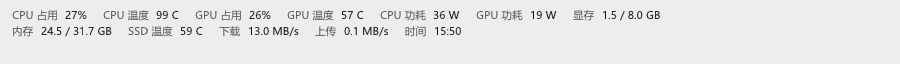
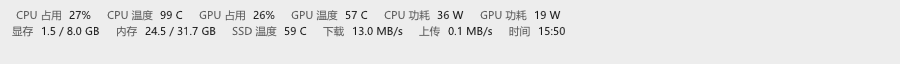
fix: 停靠预览不再跳到顶部，停靠布局固定两行
- 设置窗口打开时也按任务栏位置预览，拖动停靠宽度不再跳到顶部
- 停靠固定两行：按条目数对半分、行内居中，字号在 0.9x–0.6x 间自适应
- 停靠位置 y 增加下限，面板再高也不会跑到任务栏上方
- 版本升至 1.0.7

Changed region(s): [[0.0, 0.1562, 0.7467, 0.3438], [0.0, 0.4062, 0.6533, 0.5938]]

diff --git a/src/overlay_ui.cpp b/src/overlay_ui.cpp
@@ -248,7 +248,32 @@ ImVec2 DrawStats(const Config& cfg, const SensorSnapshot& snap, ImVec2 pos, ImVe
     std::array<int,kMetricCount> rank{};
     for (size_t i=0;i<kMetricCount;++i) rank[cfg.metricOrder[i]]=static_cast<int>(i);
     std::sort(items.begin(),items.end(),[&](const auto& a,const auto& b){ return rank[a.id]<rank[b.id]; });
-    const float fontSize = ImGui::GetStyle().FontSizeBase * (docked ? std::min(cfg.fontScale, kDockedFontScale) : cfg.fontScale);
+    // Docked: exactly two balanced, centred rows. Shrink the font until both rows fit the width.
+    const float baseFont = ImGui::GetStyle().FontSizeBase;
+    float dockScale = kDockedFontScale;
+    int dockSplit = 0;
+    std::vector<float> dockWidths;
+    if (docked && !items.empty()) {
+        const int count = static_cast<int>(items.size());
+        dockSplit = (count + 1) / 2;
+        dockWidths.resize(items.size());
+        auto rowWidth = [&](int begin, int end) {
+            float sum = 0;
+            for (int i = begin; i < end; ++i) sum += dockWidths[size_t(i)];
+            if (end > begin) sum += 16.0f * float(end - begin - 1);
+            return sum;
+        };
+        for (float scale = kDockedFontScale; scale >= 0.6f; scale -= 0.05f) {
+            ImGui::PushFont(nullptr, baseFont * scale);
+            for (size_t i = 0; i < items.size(); ++i)
+                dockWidths[i] = ImGui::CalcTextSize(items[i].label.c_str()).x + 7 +
+                                ImGui::CalcTextSize(items[i].text.c_str()).x;
+            ImGui::PopFont();
+            dockScale = scale;
+            if (std::max(rowWidth(0, dockSplit), rowWidth(dockSplit, count)) <= float(cfg.dockedMaxWidth)) break;
+        }
+    }
+    const float fontSize = baseFont * (docked ? dockScale : cfg.fontScale);
     if (hud.fontSize!=fontSize) { hud.valueWidths.fill(0); hud.fontSize=fontSize; }
     ImGui::PushFont(nullptr, fontSize);
     ImGui::PushStyleColor(ImGuiCol_WindowBg, light ? ImVec4(1.0f,1.0f,1.0f,1.0f) : ImVec4(0.06f,0.06f,0.06f,1.0f));
@@ -274,6 +299,37 @@ ImVec2 DrawStats(const Config& cfg, const SensorSnapshot& snap, ImVec2 pos, ImVe
         const float available = docked && cfg.dockedMaxWidth > 0
             ? float(cfg.dockedMaxWidth)
             : std::max(100.0f, ImGui::GetIO().DisplaySize.x - 18.0f);
+        const float lineHeight = ImGui::GetTextLineHeight();
+        if (docked && !items.empty()) {
+            const int count = static_cast<int>(items.size());
+            const int split = std::min(dockSplit, count);
+            float w1 = 0, w2 = 0;
+            for (int i = 0; i < split; ++i) w1 += dockWidths[size_t(i)] + 16.0f;
+            for (int i = split; i < count; ++i) w2 += dockWidths[size_t(i)] + 16.0f;
+            if (split) w1 -= 16.0f;
+            if (split < count) w2 -= 16.0f;
+            const float panelWidth = std::max(w1, w2);
+            for (int row = 0; row < 2; ++row) {
+                const int begin = row ? split : 0;
+                const int end = row ? count : split;
+                if (begin >= end) continue;
+                float rx = x + (panelWidth - (row ? w2 : w1)) * 0.5f;
+                const float ry = start.y + row * (lineHeight + rowGap);
+                for (int i = begin; i < end; ++i) {
+                    const HudItem& item = items[size_t(i)];
+                    const float labelWidth = ImGui::CalcTextSize(item.label.c_str()).x;
+                    const ImVec4 labelColor = light ? ImVec4(0.32f,0.32f,0.32f,1) : ImVec4(0.78f,0.78f,0.78f,1);
+                    ImGui::SetCursorPos(ImVec2(start.x + rx, ry));
+                    ImGui::TextColored(labelColor, "%s", item.label.c_str());
+                    ImGui::SetCursorPos(ImVec2(start.x + rx + labelWidth + 7, ry));
+                    ImGui::TextColored(item.color, "%s", item.text.c_str());
+                    rx += dockWidths[size_t(i)] + 16.0f;
+                }
+            }
+            width = x + panelWidth;
+            ImGui::SetCursorPos(start);
+            ImGui::Dummy(ImVec2(width, 2.0f * lineHeight + rowGap));
+        } else {
         for (const auto& item : items) {
             const float labelWidth=ImGui::CalcTextSize(item.label.c_str()).x;
             const float textWidth=ImGui::CalcTextSize(item.text.c_str()).x;
@@ -303,6 +359,7 @@ ImVec2 DrawStats(const Config& cfg, const SensorSnapshot& snap, ImVec2 pos, ImVe
         width = std::max(width, x > 0 ? x - moduleGap : 180);
         ImGui::SetCursorPos(start);
         ImGui::Dummy(ImVec2(width, items.empty() && !snap.recording ? 0 : (row + 1) * height - rowGap));
+        }
         if (cfg.showFrameGraph) DrawFrameGraph(snap, width);
         if (noticeVisible) ImGui::TextColored(valueColor,"%s",hud.notice.c_str());
         size = ImGui::GetWindowSize();

diff --git a/src/main.cpp b/src/main.cpp
@@ -130,9 +130,10 @@ RECT MonitorRect(App& app) {
 // True when the foreground window covers its whole monitor with no title bar, i.e. a full-screen
 // game (borderless included). Maximized windows do not count: browsers and editors should get the
 // taskbar docking instead.
-bool ForegroundCoversMonitor() {
+bool ForegroundCoversMonitor(const App& app) {
     const HWND fg = GetForegroundWindow();
     if (!fg) return false;
+    if (fg == app.overlay.Hwnd() || fg == app.trayWnd) return false; // our own windows are never a game
     DWORD pid = 0;
     GetWindowThreadProcessId(fg, &pid);
     if (!pid) return false;
@@ -152,8 +153,8 @@ bool ForegroundCoversMonitor() {
 // Only for a bottom/top taskbar that is actually visible; the foreground app must not be
 // full-screen, so games keep the configured corner position.
 bool TaskbarDockRect(const App& app, RECT& rect) {
-    if (!app.cfg.dockTaskbar || app.settings.open) return false;
-    if (ForegroundCoversMonitor()) return false;
+    if (!app.cfg.dockTaskbar) return false;
+    if (ForegroundCoversMonitor(app)) return false;
     APPBARDATA bar{sizeof(bar)};
     if (!SHAppBarMessage(ABM_GETTASKBARPOS, &bar)) return false;
     if (bar.uEdge != ABE_BOTTOM && bar.uEdge != ABE_TOP) return false;
@@ -178,7 +179,8 @@ RECT DesiredBounds(App& app) {
     RECT taskbar{};
     if (TaskbarDockRect(app, taskbar) && taskbar.bottom - taskbar.top >= h + 4) {
         const int x = taskbar.left + 8 + app.cfg.offsetX; // small breathing room from the screen edge
-        const int y = taskbar.top + (taskbar.bottom - taskbar.top - h) / 2;
+        int y = taskbar.top + (taskbar.bottom - taskbar.top - h) / 2;
+        if (y < taskbar.top) y = taskbar.top; // never grow upwards over the app content
         return {x, y, x + w, y + h};
     }
     const ImVec2 pivot = CornerPivot(app.cfg.corner);
@@ -552,11 +554,17 @@ void RenderFrame(App& app) {
     ImVec2 pos(0, 0), pivot(0, 0);
     if (app.settings.open) {
         const RECT& b = app.overlay.Bounds();
-        pivot = CornerPivot(app.cfg.corner);
-        pos.x = pivot.x == 0.0f ? (float)app.cfg.offsetX
-              : pivot.x >= 1.0f ? float(b.right - b.left - app.cfg.offsetX)
-              : float(b.right - b.left) * 0.5f + float(app.cfg.offsetX);
-        pos.y = pivot.y == 0.0f ? (float)app.cfg.offsetY : float(b.bottom - b.top - app.cfg.offsetY);
+        if (docked) {
+            // Preview the real dock position while adjusting, instead of jumping to the corner.
+            pivot = ImVec2(0, 0);
+            pos = ImVec2(float(dockRect.left - mon.left + 8 + app.cfg.offsetX), float(dockRect.top - mon.top + 2));
+        } else {
+            pivot = CornerPivot(app.cfg.corner);
+            pos.x = pivot.x == 0.0f ? (float)app.cfg.offsetX
+                  : pivot.x >= 1.0f ? float(b.right - b.left - app.cfg.offsetX)
+                  : float(b.right - b.left) * 0.5f + float(app.cfg.offsetX);
+            pos.y = pivot.y == 0.0f ? (float)app.cfg.offsetY : float(b.bottom - b.top - app.cfg.offsetY);
+        }
     }
     if (app.hudVisible) app.statsSize = DrawStats(app.cfg, app.snapshot, pos, pivot,&app.hud);
 

diff --git a/tools/ui_check.cpp b/tools/ui_check.cpp
@@ -37,8 +37,8 @@ int main() {
     Config narrowCfg=cfg; narrowCfg.docked=true; narrowCfg.dockedMaxWidth=120;
     ImGui::NewFrame(); DrawStats(narrowCfg,snap,ImVec2(0,0),ImVec2(0,0)); ImGui::Render();
     ImGui::NewFrame(); const auto narrowStats=DrawStats(narrowCfg,snap,ImVec2(0,0),ImVec2(0,0)); ImGui::Render();
-    // The docked panel respects its width budget and wraps into more rows when it is narrower.
-    const bool dockedWraps=dockedStats.x<=240 && narrowStats.x<=140 && narrowStats.y>dockedStats.y;
+    // Docked layout is always two rows; shrinking the width changes the fit, never the row count.
+    const bool dockedWraps=dockedStats.y>single.y && dockedStats.y<=64 && narrowStats.y<=dockedStats.y;
     cfg.singleLine=false; cfg.itemsPerRow=1;
     ImGui::NewFrame(); DrawStats(cfg,snap,ImVec2(12,12),ImVec2(0,0)); ImGui::Render();
     ImGui::NewFrame(); const auto multi=DrawStats(cfg,snap,ImVec2(12,12),ImVec2(0,0)); ImGui::Render();
